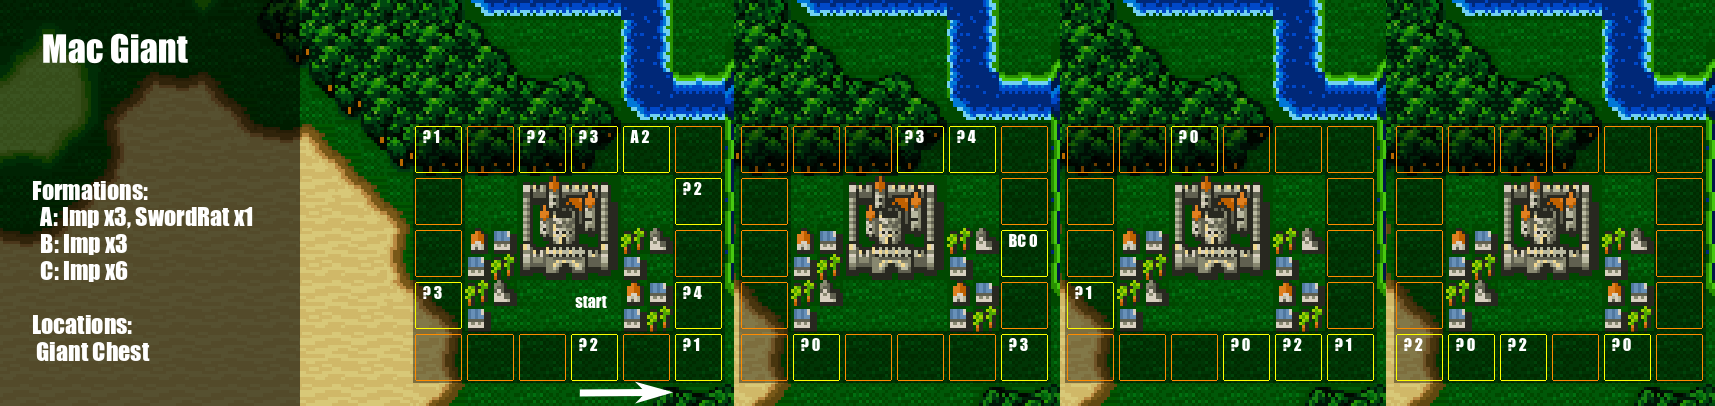
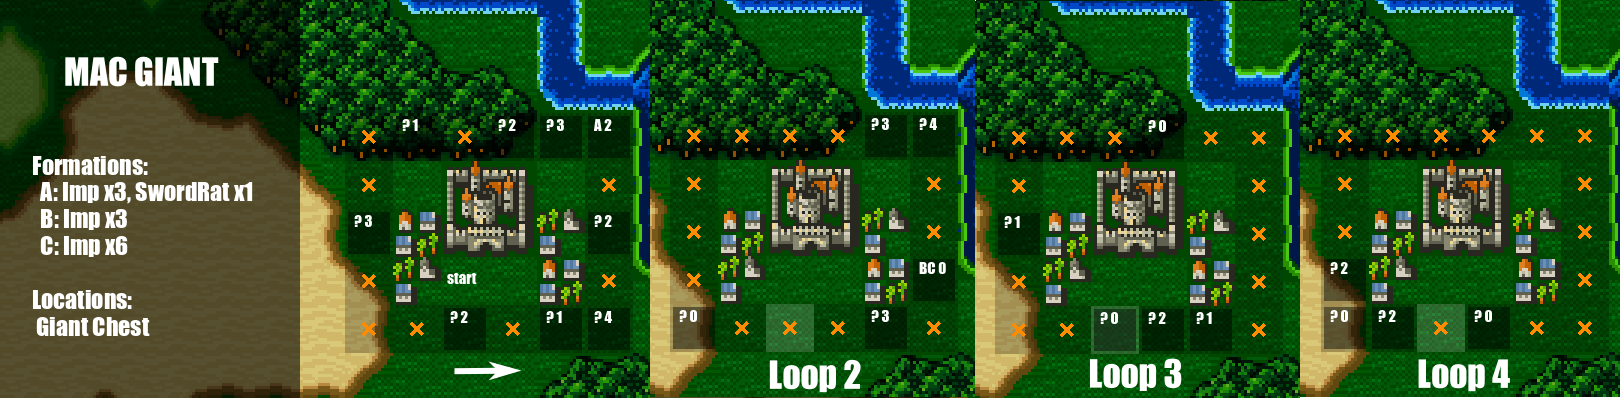
change how the boxes look by default, update examples

diff --git a/.examples/readme.md b/.examples/readme.md
@@ -1,17 +1,57 @@
-### This project is a WIP - use these step charts in actual races at your own risk!
+## Examples
 
-These examples are loops that can be walked, use the nearby terrain as reference.
+<details>
+<summary>Baron D Machin</summary>
 
- - Reset and load a save with encounters on, starting at "start"
- - When you get an encounter:
-    - If a cell was orange, reset
-    - If a cell is yellow with a ?
+![](baron-dmachin.png "Baron D Machin")
+</details>
+<details>
+<summary>Baron Mac Giant</summary>
+
+![](baron-macgiant.png "Baron Mac Giant")
+</details>
+<details>
+<summary>Mysidia D Machin</summary>
+
+![](mysidia-dmachin.png "Mysidia D Machin")
+</details>
+<details>
+<summary>Mysidia Mac Giant</summary>
+
+![](mysidia-macgiant.png "Mysidia Mac Giant")
+</details>
+<details>
+<summary>Mysidia Reaction</summary>
+
+![](mysidia-reaction.png "Mysidia Reaction")
+</details>
+<details>
+<summary>Mysidia Warlock</summary>
+
+![](mysidia-warlock.png "Mysidia Warlock")
+</details>
+<details>
+<summary>Mysidia King-Ryu</summary>
+
+![](mysidia-kingryu.png "Mysidia King-Ryu")
+</details>
+
+## Usage
+This project is a WIP. Use these step charts in actual races at your own risk!
+
+These examples are loops that can be walked
+ - Encounters on, stand on "start"
+ - Save + Reset
+ - Start walking the route / loop
+ - When you get an encounter on a cell with an x, reset
+ - When you get an encounter on a dark cell:
+    - If the cell has a ?
       - Run from this encounter, and then an additional X times using the number after the ?
       - e.g. `? 2` would mean run from your initial encounter, then 2 more encounters. Your goal encounter will be on the next encounter.
-    - If a cell is yellow with some letters
-      - If your encounter matches one of the labelled encounters, follow the instructions above with the number next to the letters.
-      - If your encounter doesn't match, reset
-      - e.g. `AB 2` would mean run from 2 additional encounters, if the formation you see right now matches formation `A` or `B`. If it is something else, reset. 
- - After running from the last encounter turn off encounters immediately.
+    - If the call has some letters
+        - If your encounter does not match one of the lettered encounters for this cell, reset
+        - Take an additional X encounters using the number after the ?
+    - Your goal encounter will be in location with the color of the text in the box.
+    - After running from the last encounter turn off encounters immediately and head to the location
 
-Note that encounters that appear in different "slots" in different locations (e.g. d. machin), the letters within the cell will be color coded to tell you what location to use.
+It is helpful to identify bits of nearby terrain to find your reference square quickly.

diff --git a/.tests/readme.md b/.tests/readme.md
@@ -3,6 +3,7 @@
   - Actual contains tables generated by the encounter finding logic in this tool
   - Each row is plotted from left to right to fill the table for 70 generate steps on the above tool.
  - Plotting the same table using the same conditions in this tool should give the same (or equivalent) set of results for encounter information.
+ - Test cells were rendered using overlay with `box_style=2`
  - For tests that are marked as "verbose" these set `verbose_mode` to true on the overlay node
    - This will disable the behavior (in this tool) where if multiple encounters all give the same goal, then they are folded together into a "?"
  - Some tests have differences that are ok:

diff --git a/readme.md b/readme.md
@@ -34,6 +34,10 @@ This is a new WIP project, and there may still be bugs to iron out. I will proba
 |Encounter menu | m / triangle / Y     |
 |Change map  |p / R3                   |
 
+### Changing how it looks
+ - You can make all encounters visible by enabling `verbose_mode` on Overlay
+ - You can change the style of the boxes drawn by increasing `box_style` on Overlay
+
 ### Using FF4FE encounter finder
 If you want to use [FF4FE Encounter Finder](https://simbu95.github.io/FF4EncounterFinder/) to generate input, rather than
 the stepping logic in this tool - change the visibility of `NewStepsDialog` and `OldStepsDialog` in the main scene. On first run you
